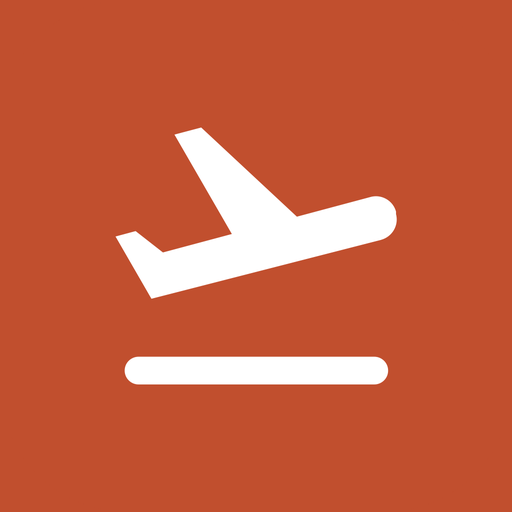
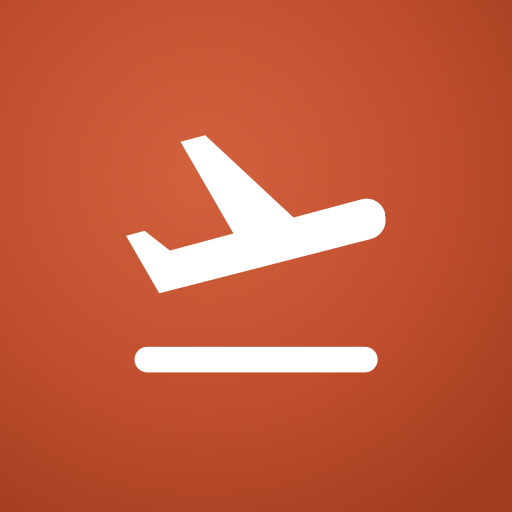
fix: 홈화면 아이콘 배경 그라데이션화 — 다크에서 주황 유지 v220
iOS 18의 아이콘 자동 단색화는 '단색 배경 + 심볼' 형태에 가장 잘 걸림.
아이콘 배경을 평면 단색 대신 미세한 방사형 그라데이션(밝은 주황→진한 주황)으로
바꿔 '복잡한 아이콘'으로 분류되게 함 → 자동 단색화 회피, 다크에서도 주황 유지 시도.
아이콘은 여전히 하나(다크 변형/JS 없음), 주황 사각형 + 흰 비행기 그대로.

- icon.svg / icon-192 / icon-512 / apple-touch-icon 재생성(그라데이션, 불투명 RGB)
- 웹 전용, v220

Claude-Session: https://claude.ai/code/session_01LewgtVGHKQCPjS6mKXeALt

diff --git a/docs/app.jsx b/docs/app.jsx
@@ -2608,7 +2608,7 @@ function TripsScreen({ trips, onSelect, onAdd, onRestore, onShare, onDelete, loa
         paddingTop:'calc(16px + env(safe-area-inset-top,0px))',
         paddingLeft:20, paddingRight:112, paddingBottom:16,
       }}>
-        <div style={{ fontFamily:SERIF, fontSize:34, color:COLORS.ink, letterSpacing:'-0.02em' }}>My Trips<span style={{fontFamily:'monospace',fontSize:12,color:COLORS.mute,marginLeft:8}}>v219</span></div>
+        <div style={{ fontFamily:SERIF, fontSize:34, color:COLORS.ink, letterSpacing:'-0.02em' }}>My Trips<span style={{fontFamily:'monospace',fontSize:12,color:COLORS.mute,marginLeft:8}}>v220</span></div>
       </div>
       {loading && trips.length === 0
         ? <div style={{ textAlign:'center', padding:60, color:COLORS.mute, fontFamily:SANS, fontSize:17 }}>{t('loading')}</div>
@@ -13050,7 +13050,7 @@ function App() {
           <div>tripId: {activeTripId ? activeTripId.slice(0,12)+'…' : 'none'}</div>
           <div>trip: {trip ? 'exists, days='+( trip.days?.length||0) : 'null'}</div>
           <div>userTrips: {userTrips.length}개</div>
-          <div style={{ fontSize:12, marginTop:4, opacity:0.8 }}>v219</div>
+          <div style={{ fontSize:12, marginTop:4, opacity:0.8 }}>v220</div>
         </div>
       </div>
       <button onClick={async () => {

diff --git a/docs/index.html b/docs/index.html
@@ -92,7 +92,7 @@
 </style>
 <!-- 서비스 워커 등록 + 새 버전 감지 시 자동 새로고침 -->
 <script>
-var EXPECTED_CACHE = 'tlj-v219';
+var EXPECTED_CACHE = 'tlj-v220';
 if('serviceWorker' in navigator) {
   var _reloading = false;
   function _doReload() {

diff --git a/docs/sw.js b/docs/sw.js
@@ -1,4 +1,4 @@
-const V = 'tlj-v219';
+const V = 'tlj-v220';
 // index.html은 캐시하지 않음 — 항상 네트워크에서 받아야 버전 감지가 동작함
 const CACHE = V;
 